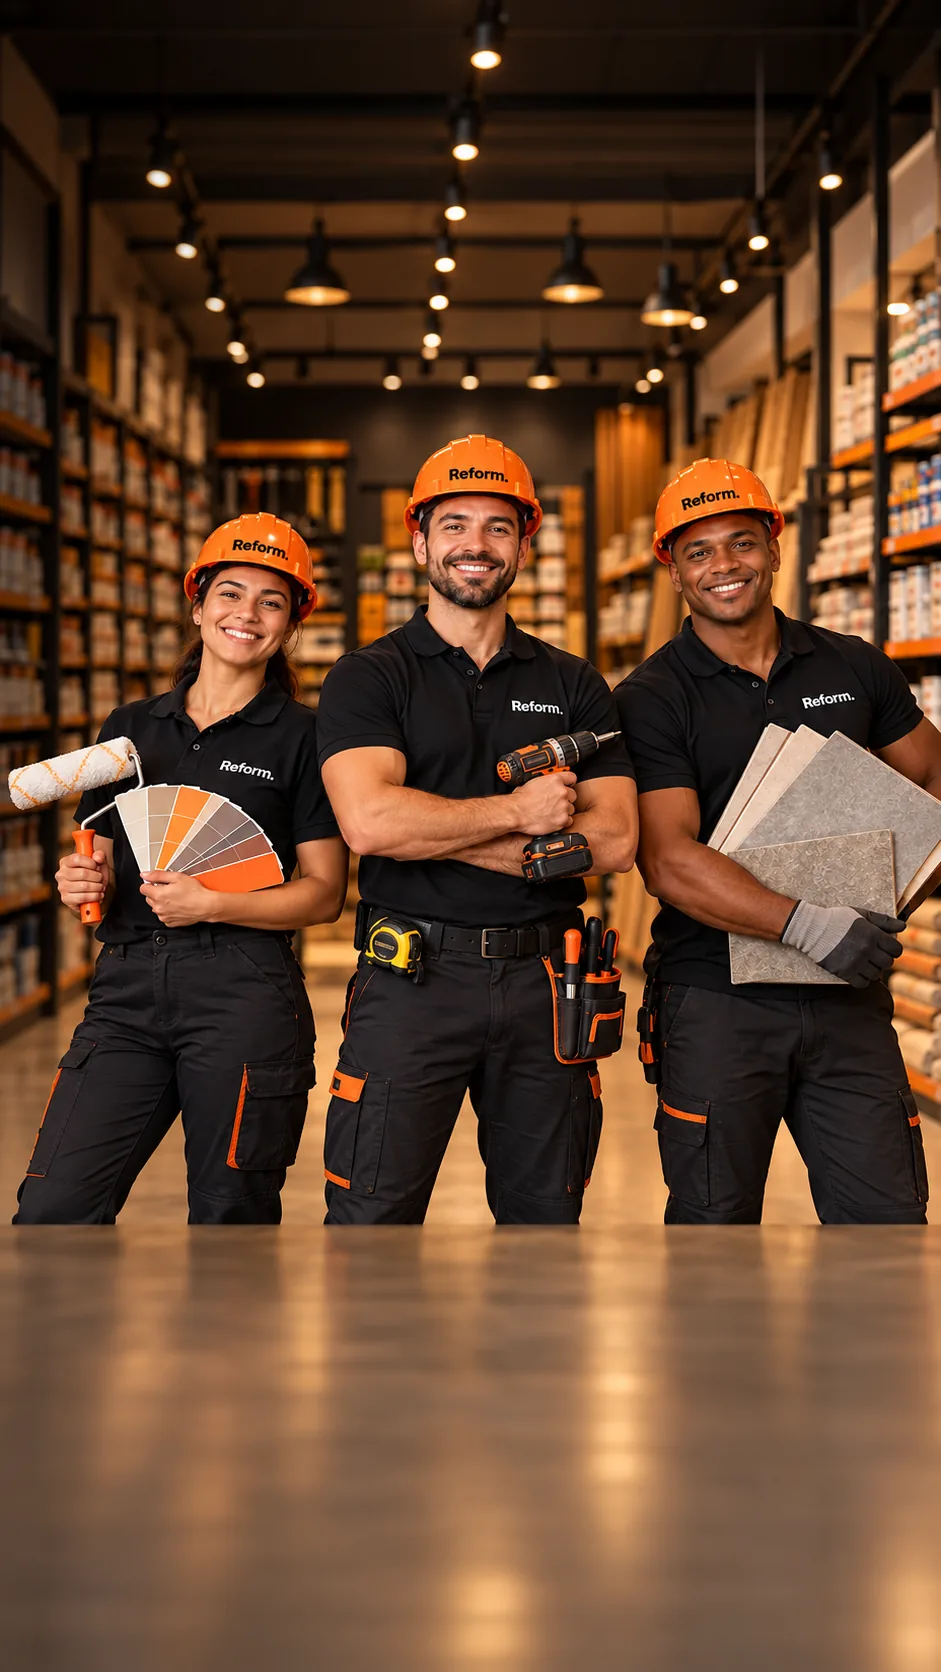
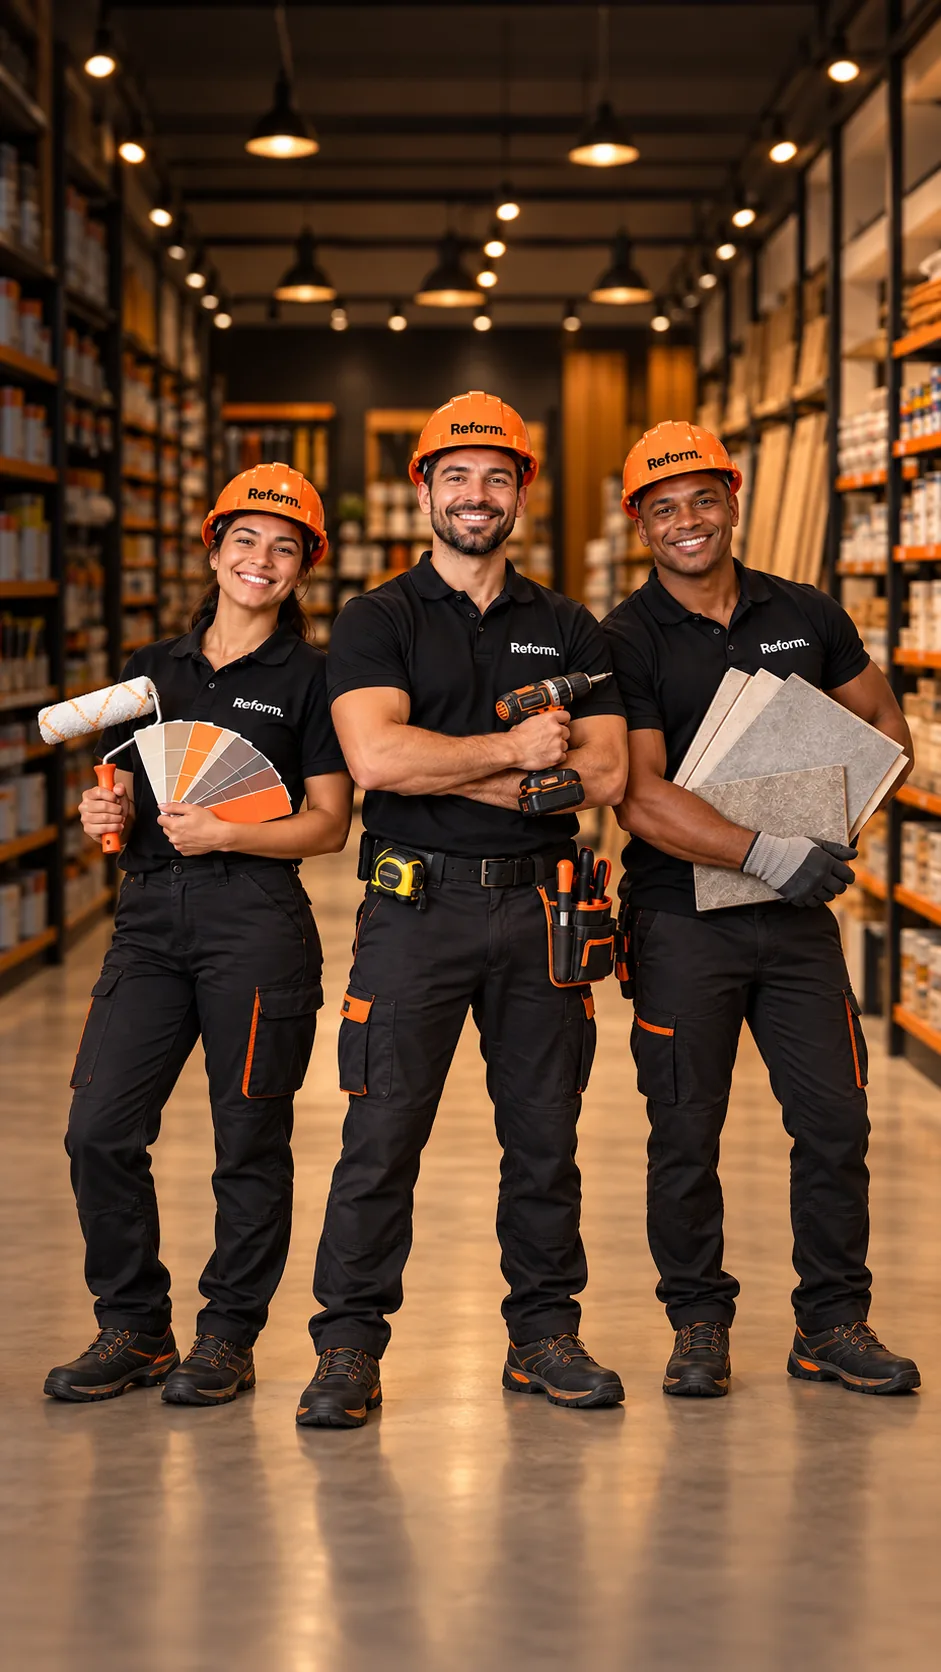
Fit mobile hero to story frame and keep team clear

diff --git a/styles.css b/styles.css
@@ -441,3 +441,41 @@ h1,h2,h3,p{margin-top:0}
   .hero-material-card img{width:27px;height:34px}
   .hero-material-card strong,.hero-material-card em{font-size:7px}
 }
+
+
+/* Hero mobile story: proporção 9:16, foto completa com margem e zonas de texto */
+@media(max-width:640px){
+  .hero{height:auto;min-height:0;max-height:none;aspect-ratio:9/16;padding:0 20px;display:block;overflow:hidden}
+  .hero-store-photo{top:10%;right:5%;bottom:0;left:5%;width:auto;height:90%;background-image:url('/assets/hero-company-team-mobile.webp');background-color:transparent;background-size:auto 100%;background-position:center bottom;background-repeat:no-repeat;opacity:1;-webkit-mask-image:none;mask-image:none}
+  .hero-overlay{background:linear-gradient(180deg,rgba(16,16,14,.32) 0%,rgba(16,16,14,.12) 34%,rgba(16,16,14,.08) 72%,rgba(16,16,14,.48) 100%)}
+  .hero-content{position:absolute;top:72px;right:20px;bottom:106px;left:20px;width:auto;max-width:none;margin:0;z-index:6}
+  .hero-title-group,.hero-details-group{display:block;position:absolute;left:0;right:0}
+  .hero-title-group{top:0}
+  .hero .eyebrow{max-width:270px;margin-bottom:7px;font-size:8px;letter-spacing:.13em}
+  .hero h1{font-size:clamp(43px,13vw,54px);line-height:.9}
+  .hero-details-group{bottom:0}
+  .hero-copy{max-width:270px;margin:0 0 12px;font-size:11px;line-height:1.5;color:rgba(255,255,255,.9)}
+  .hero-actions{display:flex;flex-direction:row;align-items:center;gap:10px;margin:0}
+  .hero-actions .button{min-height:43px;padding-inline:12px;font-size:8px;gap:9px}
+  .hero-actions .text-link{font-size:8px;white-space:nowrap}
+  .hero-installment{display:block;position:static;max-width:270px;margin:14px 0 0;font-size:15px;line-height:1.2;text-align:left}
+  .hero-side-note,.hero-photo-caption{display:none}
+  .hero-material-cards{right:10px;bottom:12px;left:10px;justify-content:stretch;gap:5px}
+  .hero-material-card{width:calc((100vw - 30px)/3);min-height:64px;padding:5px;gap:4px}
+  .hero-material-card img{width:29px;height:35px}
+  .hero-material-card small{font-size:5px;letter-spacing:.025em}
+  .hero-material-card strong,.hero-material-card em{font-size:7.5px}
+  .hero-material-card>b{font-size:10px}
+}
+@media(max-width:380px){
+  .hero{min-height:0;aspect-ratio:9/16}
+  .hero-content{top:68px;bottom:102px}
+  .hero h1{font-size:clamp(41px,13.2vw,48px)}
+  .hero-actions{gap:7px}
+  .hero-actions .button{padding-inline:10px;font-size:7.5px}
+  .hero-actions .text-link{font-size:7px}
+  .hero-material-cards{right:8px;left:8px;gap:4px}
+  .hero-material-card{width:calc((100vw - 24px)/3);gap:3px;padding:4px}
+  .hero-material-card img{width:26px;height:32px}
+  .hero-material-card strong,.hero-material-card em{font-size:7px}
+}
